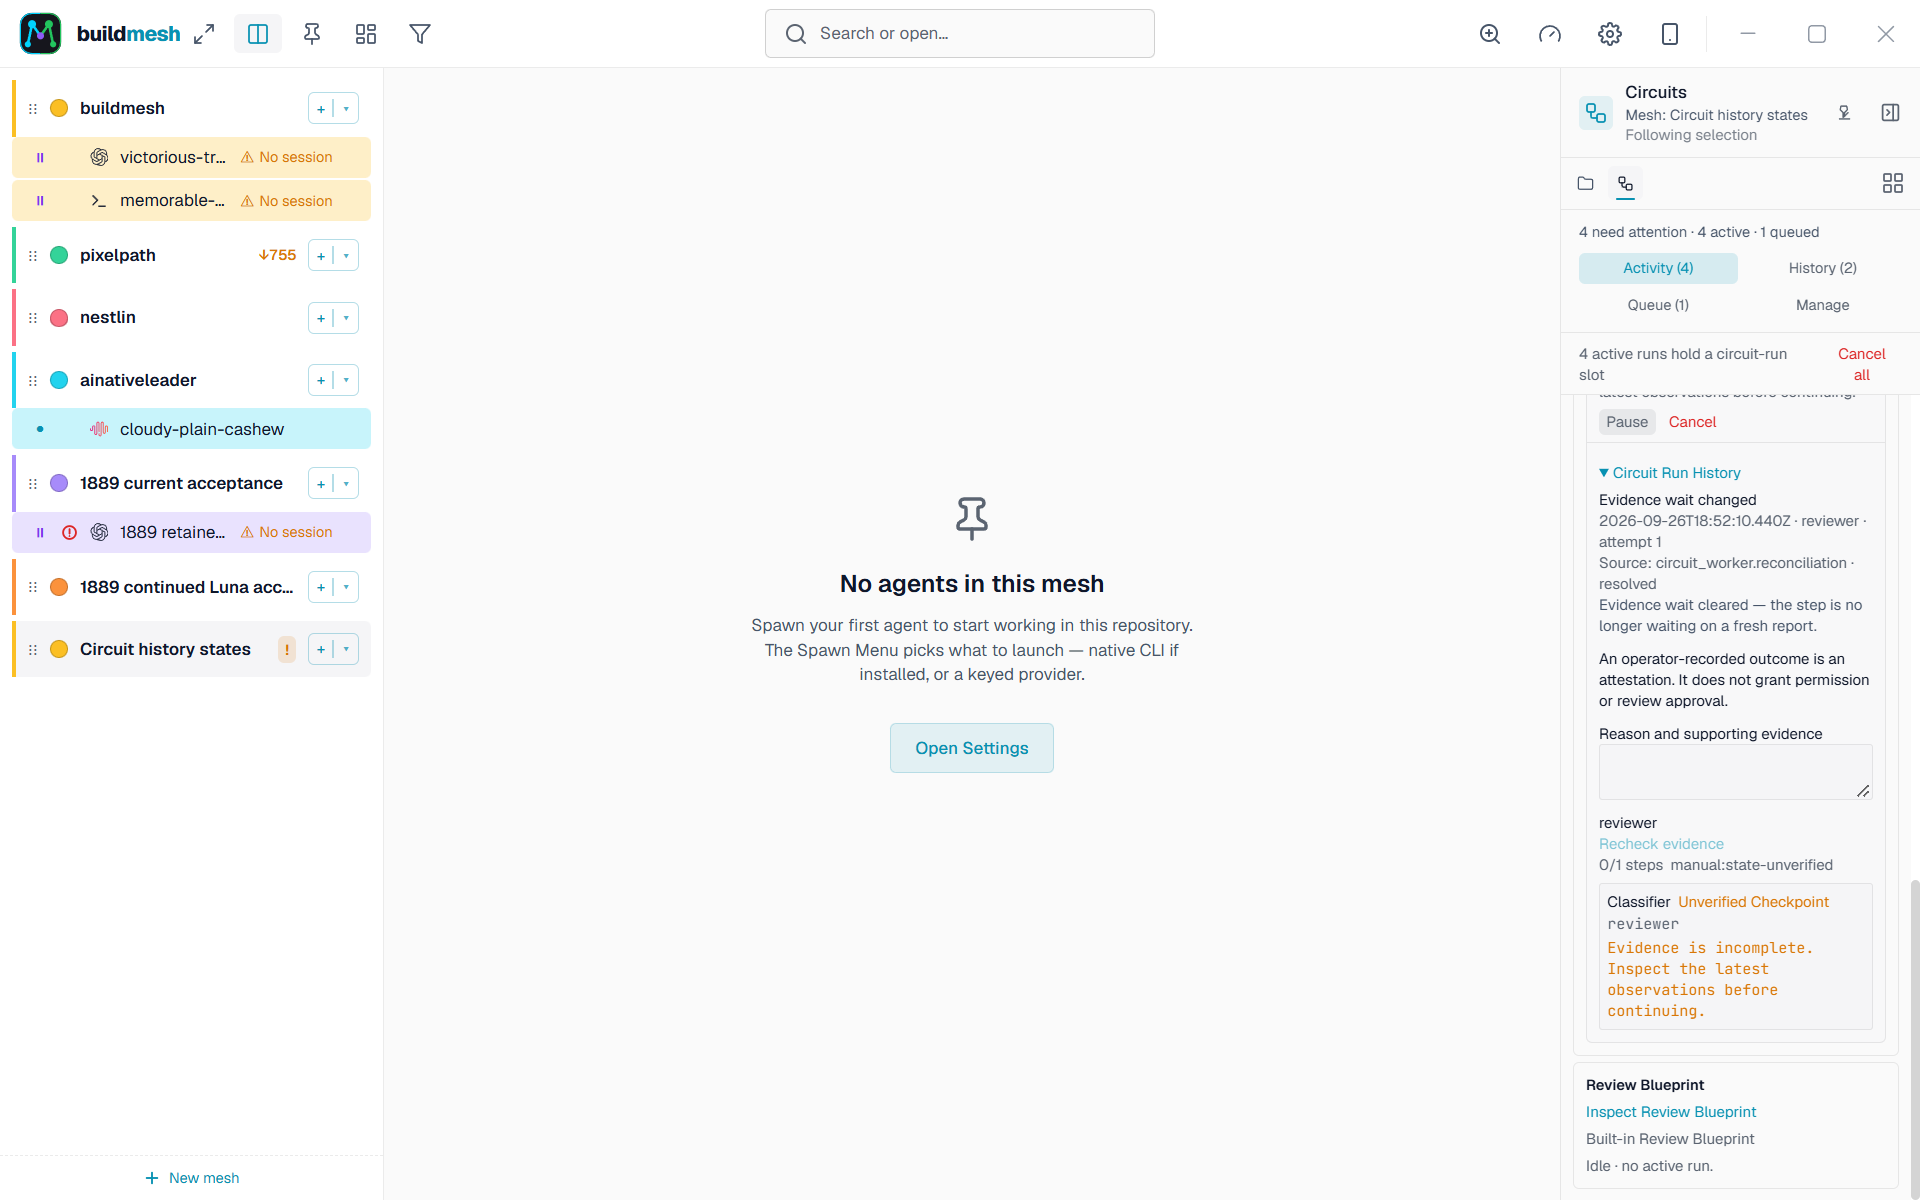
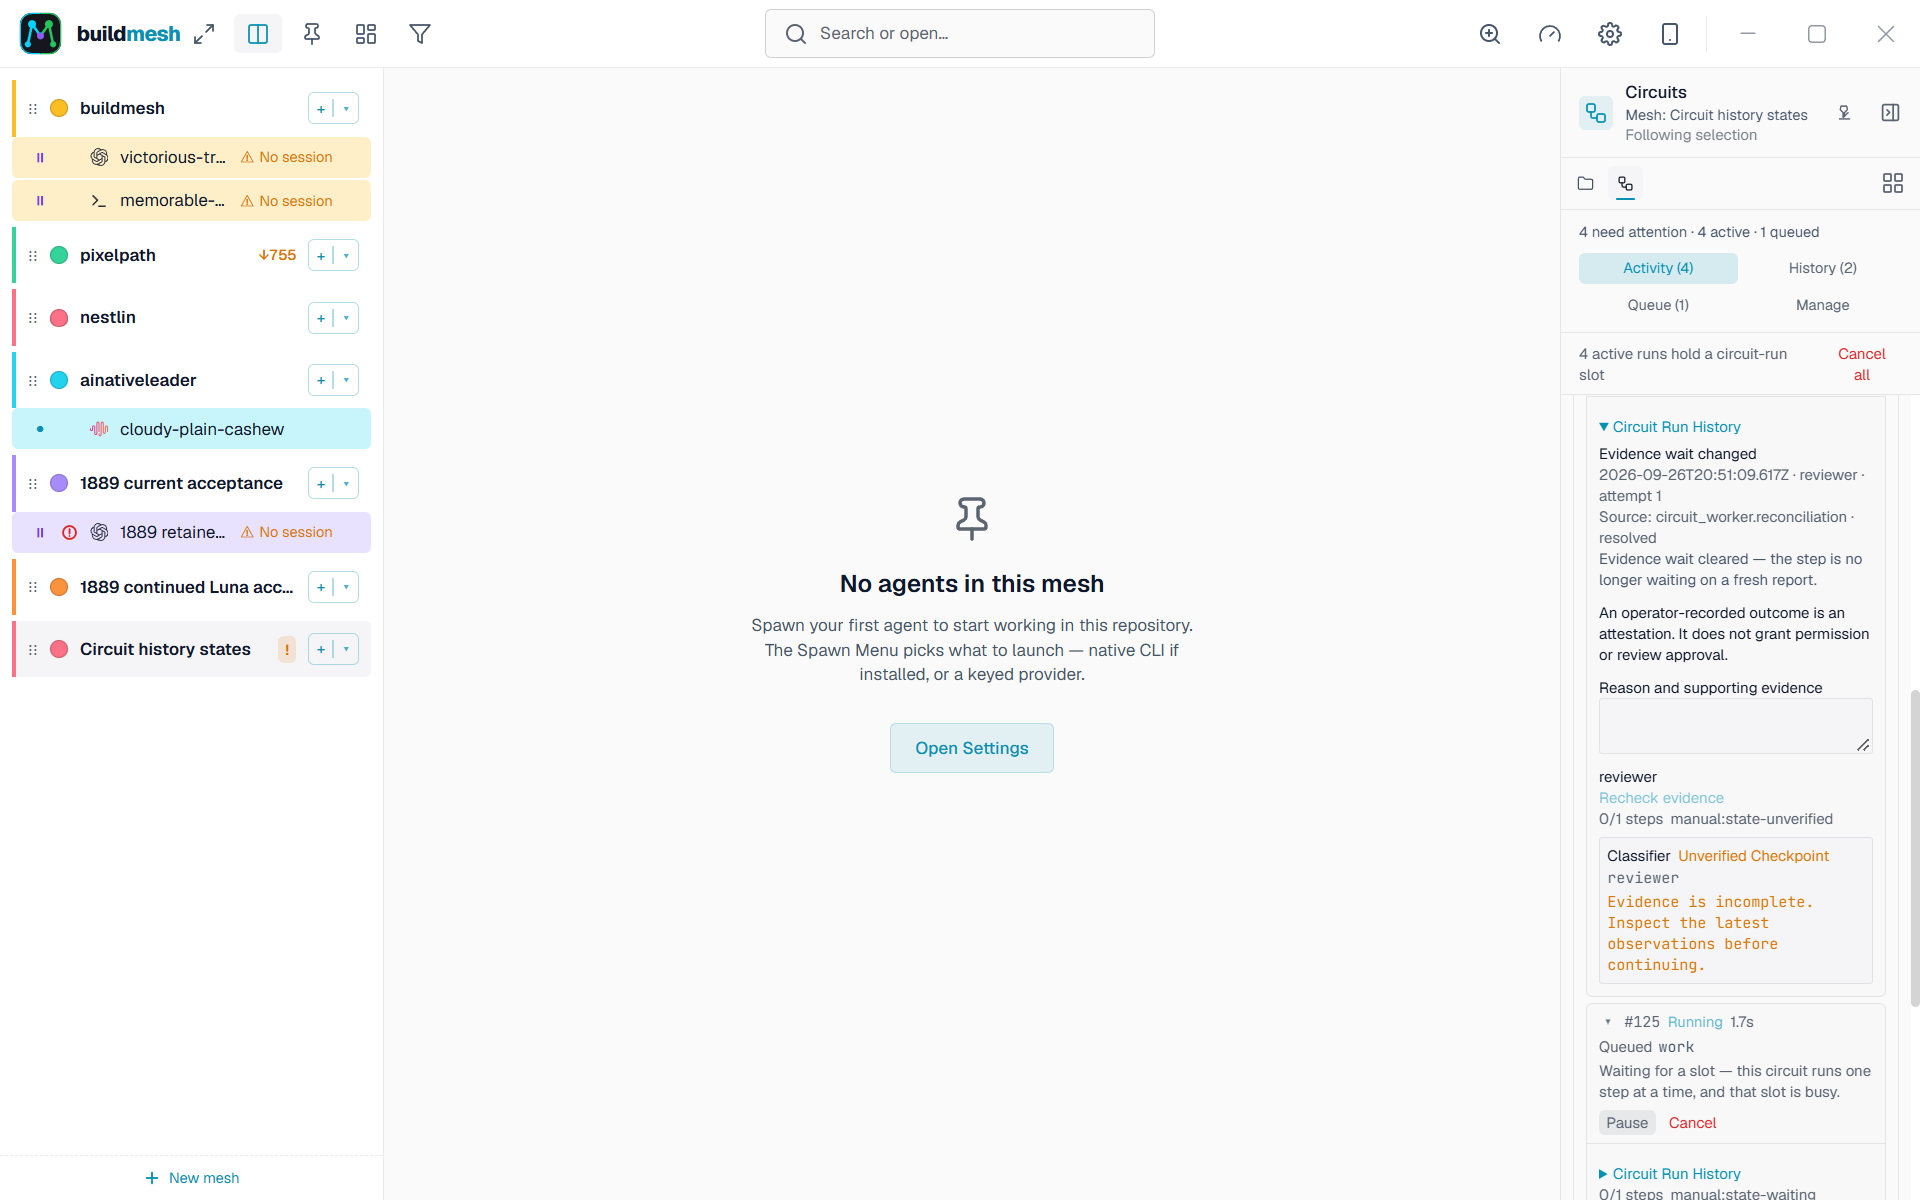
Reconcile continuation history with main and refresh the 240px evidence (#1909)
Resolves the conflict with main's successor-side continuation record (#1910): a
continued review is now recorded once, in the successor's own
`review_continuation` entry, carrying source `operator` and disposition
`applied`. My duplicate predecessor-side `recovery` entry is removed, so the
failed predecessor's ledger stays immutable (main's invariant), and the Probe
renders the entry as "Continued a failed review - this run follows run #N".

Refresh: the live 240px WebView2 captures are re-taken on the merged build
(including a dedicated continuation capture), and the full-suite numbers are
re-recorded (clean env 3,877 passed / 0 failed / 24 ignored; the two ambient-env
failures are unchanged and reproduce on base 41cfdc29).

Changed region(s): [[0.8125, 0.5858, 1.0, 1.0], [0.8125, 0.3392, 0.9688, 0.6167], [0.0, 0.5242, 0.0312, 0.555]]

diff --git a/docs/development/circuit-reliability-acceptance.md b/docs/development/circuit-reliability-acceptance.md
@@ -831,12 +831,12 @@ separator):
 
 | State | Run | Asserted next safe action / reason |
 |---|---|---|
-| Working | 110 | Activity "Running" |
-| Waiting (step slot) | 111 | Activity "Queued"; reason "Waiting for a slot — this circuit runs one step at a time, and that slot is busy." |
-| Unverified | 112 | Activity "Unverified Checkpoint"; reason "Evidence is incomplete. Inspect the latest observations before continuing."; the card's Circuit Run History offers **Recheck evidence**, and its resolved evidence wait renders as "Evidence wait cleared — …" with the attempt identity preserved (no "attempt …" line) |
-| Failed | 113 | Activity "Failed"; reason "The review command exited before producing a result." |
-| Recovery | 114 → 115 | Successor shows "Continues run #114 on the same worktree." and its own history entry "Continued a failed review — this run follows run #114" (source `operator`, disposition `applied`); the failed predecessor's ledger is not written to |
-| Waiting (admission) | 116 | Queue row "Waiting for a circuit-run slot — this mesh allows 1 concurrent run, and that slot is busy." |
+| Working | 124 | Activity "Running" |
+| Waiting (step slot) | 125 | Activity "Queued"; reason "Waiting for a slot — this circuit runs one step at a time, and that slot is busy." |
+| Unverified | 126 | Activity "Unverified Checkpoint"; reason "Evidence is incomplete. Inspect the latest observations before continuing."; the card's Circuit Run History offers **Recheck evidence**, and its resolved evidence wait renders as "Evidence wait cleared — …" with the attempt identity preserved (no "attempt …" line) |
+| Failed | 127 | Activity "Failed"; reason "The review command exited before producing a result." |
+| Recovery | 128 → 129 | Successor shows "Continues run #128 on the same worktree." and its own history entry "Continued a failed review — this run follows run #128" (source `operator`, disposition `applied`); the failed predecessor's ledger is not written to |
+| Waiting (admission) | 130 | Queue row "Waiting for a circuit-run slot — this mesh allows 1 concurrent run, and that slot is busy." |
 
 Also asserted: `width <= 240`, `tab.scrollWidth <= clientWidth`,
 `body.scrollWidth <= clientWidth`, and no `button`/`select`/`input` clipped
@@ -844,9 +844,11 @@ horizontally.
 
 Inspected captures (committed under `docs/pr-screenshots/issue-1909/`):
 
-![Activity: working, waiting, Unverified with its Recheck action, resolved evidence wait, and the recovery successor link](../pr-screenshots/issue-1909/activity-states-and-recheck.png)
+![Activity: working, waiting, Unverified with its Recheck action, and the resolved evidence wait](../pr-screenshots/issue-1909/activity-states-and-recheck.png)
 
-![History: the failed run's readable reason](../pr-screenshots/issue-1909/history-recovery.png)
+![Continuation: the successor's "Continued a failed review" entry with source and disposition](../pr-screenshots/issue-1909/continuation.png)
+
+![History: the failed run's readable reason](../pr-screenshots/issue-1909/history-failed.png)
 
 ![Queue: the pending run's admission reason](../pr-screenshots/issue-1909/queue-admission.png)
 
